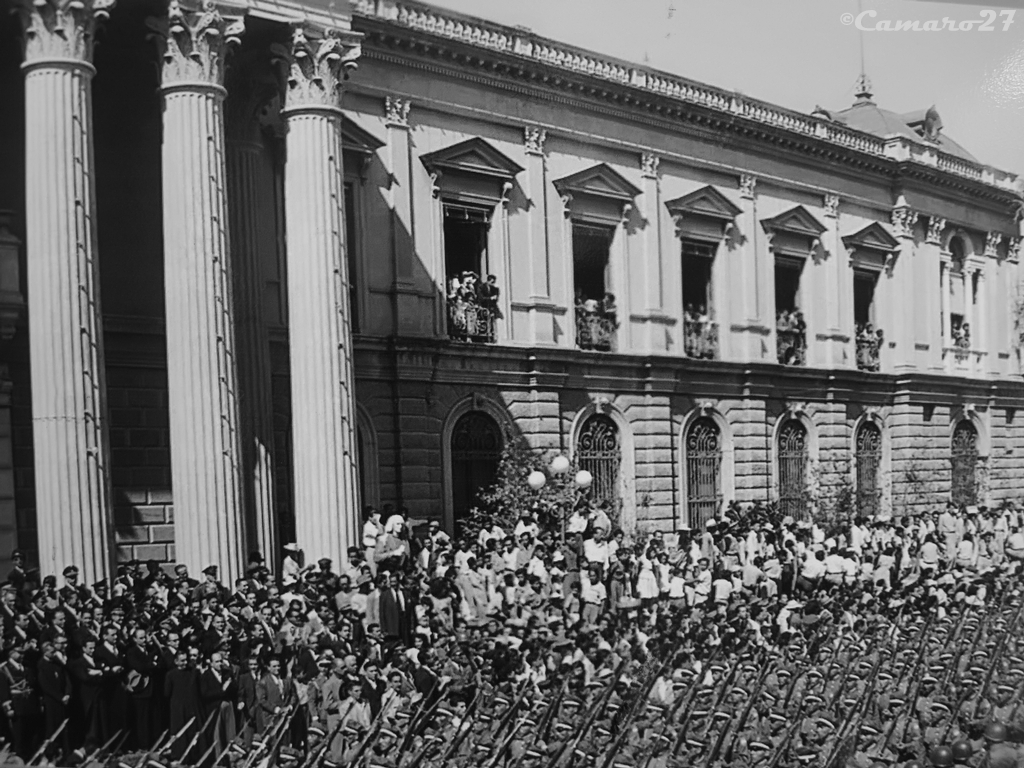
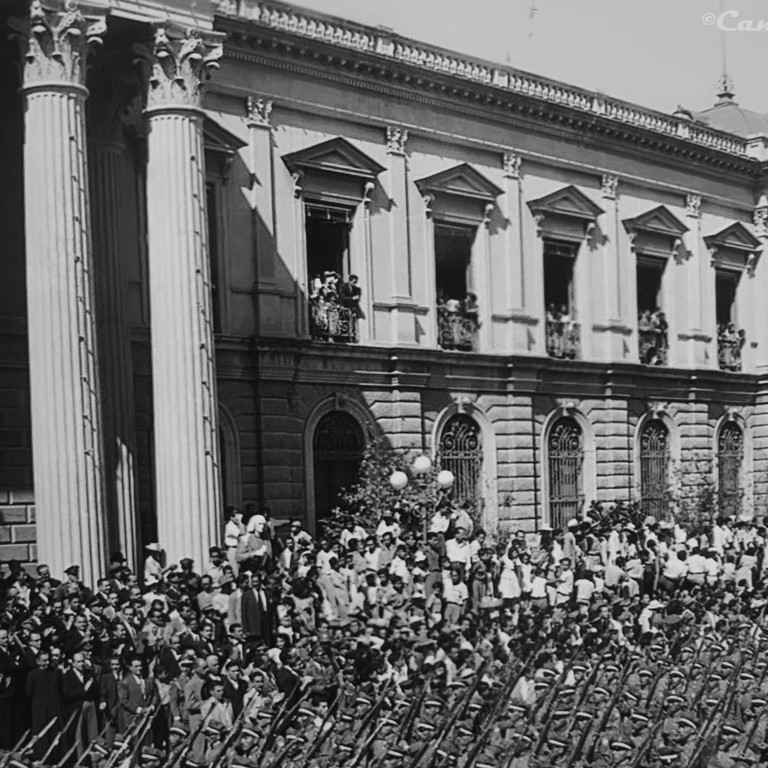
updated

diff --git a/index.html b/index.html
@@ -13,9 +13,10 @@
     <link rel="stylesheet" href="assets/css/custom.css">
 
     <!-- Load fonts style after rendering the layout styles -->
-    <link rel="stylesheet" href="https://fonts.googleapis.com/css2?family=Roboto:wght@100;200;300;400;500;700;900&display=swap">
+    <link rel="stylesheet"
+        href="https://fonts.googleapis.com/css2?family=Roboto:wght@100;200;300;400;500;700;900&display=swap">
     <link rel="stylesheet" href="assets/css/fontawesome.min.css">
-<!--
+    <!--
     
 TemplateMo 559 Zay Shop
 
@@ -29,7 +30,17 @@ https://templatemo.com/tm-559-zay-shop
         width: 100px;
         height: auto;
     }
+
+    @media (max-width: 750px) {
+    .palacionherocontainer img {
+        width: 100vw; 
+        height: 100vh; 
+        object-fit: cover; 
+    }
+}
+
 </style>
+
 <body>
 
     <!-- Header -->
@@ -40,15 +51,18 @@ https://templatemo.com/tm-559-zay-shop
                 <img src="images/logo2.png" alt="">
             </a>
 
-            <button class="navbar-toggler border-0" type="button" data-bs-toggle="collapse" data-bs-target="#templatemo_main_nav" aria-controls="navbarSupportedContent" aria-expanded="false" aria-label="Toggle navigation">
+            <button class="navbar-toggler border-0" type="button" data-bs-toggle="collapse"
+                data-bs-target="#templatemo_main_nav" aria-controls="navbarSupportedContent" aria-expanded="false"
+                aria-label="Toggle navigation">
                 <span class="navbar-toggler-icon"></span>
             </button>
 
-            <div class="align-self-center collapse navbar-collapse flex-fill  d-lg-flex justify-content-lg-between" id="templatemo_main_nav">
+            <div class="align-self-center collapse navbar-collapse flex-fill  d-lg-flex justify-content-lg-between"
+                id="templatemo_main_nav">
                 <div class="flex-fill">
                     <ul class="nav navbar-nav d-flex justify-content-between mx-lg-auto">
                         <li class="nav-item">
-                            <a class="nav-link active" href="index.html">Home</a>
+                            <a class="nav-link" href="index.html">Home</a>
                         </li>
                         <li class="nav-item">
                             <a class="nav-link" href="about.html">Historia</a>
@@ -68,7 +82,8 @@ https://templatemo.com/tm-559-zay-shop
     <!-- Close Header -->
 
     <!-- Modal -->
-    <div class="modal fade bg-white" id="templatemo_search" tabindex="-1" role="dialog" aria-labelledby="exampleModalLabel" aria-hidden="true">
+    <div class="modal fade bg-white" id="templatemo_search" tabindex="-1" role="dialog"
+        aria-labelledby="exampleModalLabel" aria-hidden="true">
         <div class="modal-dialog modal-lg" role="document">
             <div class="w-100 pt-1 mb-5 text-right">
                 <button type="button" class="btn-close" data-bs-dismiss="modal" aria-label="Close"></button>
@@ -84,39 +99,39 @@ https://templatemo.com/tm-559-zay-shop
         </div>
     </div>
 
-
-
     <!-- Start Banner Hero -->
-
+    <div id="template-mo-zay-hero-carousel" data-bs-ride="carousel">
+        <div class="palacioherocontainer">
+            <img class="img-fluid" src="images/palaciohero.jpg" alt="">
+        </div>
+    </div>
     <!-- End Banner Hero -->
-
 
     <!-- Start Categories of The Month -->
     <section class="container py-5">
         <div class="row text-center pt-3">
             <div class="col-lg-6 m-auto">
-                <h1 class="h1">Categories of The Month</h1>
+                <h1 class="h1">Memoria En Cada Paso</h1>
                 <p>
-                    Excepteur sint occaecat cupidatat non proident, sunt in culpa qui officia
-                    deserunt mollit anim id est laborum.
+                    Baldosas del Palacio Nacional de El Salvador
                 </p>
             </div>
         </div>
         <div class="row">
             <div class="col-12 col-md-4 p-5 mt-3">
-                <a href="#"><img src="./assets/img/category_img_01.jpg" class="rounded-circle img-fluid border"></a>
-                <h5 class="text-center mt-3 mb-3">Watches</h5>
-                <p class="text-center"><a class="btn btn-success">Go Shop</a></p>
+                <a href="#"><img src="images/image4.jpg" class="rounded-circle img-fluid border"></a>
+                <h5 class="text-center mt-3 mb-3">Historia</h5>
+                <p class="text-center"><a class="btn btn-success">Leer Más</a></p>
             </div>
             <div class="col-12 col-md-4 p-5 mt-3">
-                <a href="#"><img src="./assets/img/category_img_02.jpg" class="rounded-circle img-fluid border"></a>
-                <h2 class="h5 text-center mt-3 mb-3">Shoes</h2>
-                <p class="text-center"><a class="btn btn-success">Go Shop</a></p>
+                <a href="#"><img src="images/image3.jpg" class="rounded-circle img-fluid border"></a>
+                <h2 class="h5 text-center mt-3 mb-3">Procesos</h2>
+                <p class="text-center"><a class="btn btn-success">Leer Más</a></p>
             </div>
             <div class="col-12 col-md-4 p-5 mt-3">
-                <a href="#"><img src="./assets/img/category_img_03.jpg" class="rounded-circle img-fluid border"></a>
-                <h2 class="h5 text-center mt-3 mb-3">Accessories</h2>
-                <p class="text-center"><a class="btn btn-success">Go Shop</a></p>
+                <a href="#"><img src="images/pisos.jpg" class="rounded-circle img-fluid border"></a>
+                <h2 class="h5 text-center mt-3 mb-3">Pisos</h2>
+                <p class="text-center"><a class="btn btn-success">Leer Más</a></p>
             </div>
         </div>
     </section>
@@ -154,7 +169,8 @@ https://templatemo.com/tm-559-zay-shop
                             </ul>
                             <a href="shop-single.html" class="h2 text-decoration-none text-dark">Gym Weight</a>
                             <p class="card-text">
-                                Lorem ipsum dolor sit amet, consectetur adipisicing elit. Sunt in culpa qui officia deserunt.
+                                Lorem ipsum dolor sit amet, consectetur adipisicing elit. Sunt in culpa qui officia
+                                deserunt.
                             </p>
                             <p class="text-muted">Reviews (24)</p>
                         </div>
@@ -178,7 +194,8 @@ https://templatemo.com/tm-559-zay-shop
                             </ul>
                             <a href="shop-single.html" class="h2 text-decoration-none text-dark">Cloud Nike Shoes</a>
                             <p class="card-text">
-                                Aenean gravida dignissim finibus. Nullam ipsum diam, posuere vitae pharetra sed, commodo ullamcorper.
+                                Aenean gravida dignissim finibus. Nullam ipsum diam, posuere vitae pharetra sed, commodo
+                                ullamcorper.
                             </p>
                             <p class="text-muted">Reviews (48)</p>
                         </div>
@@ -200,9 +217,11 @@ https://templatemo.com/tm-559-zay-shop
                                 </li>
                                 <li class="text-muted text-right">$360.00</li>
                             </ul>
-                            <a href="shop-single.html" class="h2 text-decoration-none text-dark">Summer Addides Shoes</a>
+                            <a href="shop-single.html" class="h2 text-decoration-none text-dark">Summer Addides
+                                Shoes</a>
                             <p class="card-text">
-                                Curabitur ac mi sit amet diam luctus porta. Phasellus pulvinar sagittis diam, et scelerisque ipsum lobortis nec.
+                                Curabitur ac mi sit amet diam luctus porta. Phasellus pulvinar sagittis diam, et
+                                scelerisque ipsum lobortis nec.
                             </p>
                             <p class="text-muted">Reviews (74)</p>
                         </div>
@@ -270,23 +289,28 @@ https://templatemo.com/tm-559-zay-shop
                 <div class="col-auto me-auto">
                     <ul class="list-inline text-left footer-icons">
                         <li class="list-inline-item border border-light rounded-circle text-center">
-                            <a class="text-light text-decoration-none" target="_blank" href="http://facebook.com/"><i class="fab fa-facebook-f fa-lg fa-fw"></i></a>
+                            <a class="text-light text-decoration-none" target="_blank" href="http://facebook.com/"><i
+                                    class="fab fa-facebook-f fa-lg fa-fw"></i></a>
                         </li>
                         <li class="list-inline-item border border-light rounded-circle text-center">
-                            <a class="text-light text-decoration-none" target="_blank" href="https://www.instagram.com/"><i class="fab fa-instagram fa-lg fa-fw"></i></a>
+                            <a class="text-light text-decoration-none" target="_blank"
+                                href="https://www.instagram.com/"><i class="fab fa-instagram fa-lg fa-fw"></i></a>
                         </li>
                         <li class="list-inline-item border border-light rounded-circle text-center">
-                            <a class="text-light text-decoration-none" target="_blank" href="https://twitter.com/"><i class="fab fa-twitter fa-lg fa-fw"></i></a>
+                            <a class="text-light text-decoration-none" target="_blank" href="https://twitter.com/"><i
+                                    class="fab fa-twitter fa-lg fa-fw"></i></a>
                         </li>
                         <li class="list-inline-item border border-light rounded-circle text-center">
-                            <a class="text-light text-decoration-none" target="_blank" href="https://www.linkedin.com/"><i class="fab fa-linkedin fa-lg fa-fw"></i></a>
+                            <a class="text-light text-decoration-none" target="_blank"
+                                href="https://www.linkedin.com/"><i class="fab fa-linkedin fa-lg fa-fw"></i></a>
                         </li>
                     </ul>
                 </div>
                 <div class="col-auto">
                     <label class="sr-only" for="subscribeEmail">Email address</label>
                     <div class="input-group mb-2">
-                        <input type="text" class="form-control bg-dark border-light" id="subscribeEmail" placeholder="Email address">
+                        <input type="text" class="form-control bg-dark border-light" id="subscribeEmail"
+                            placeholder="Email address">
                         <div class="input-group-text btn-success text-light">Subscribe</div>
                     </div>
                 </div>
@@ -298,8 +322,9 @@ https://templatemo.com/tm-559-zay-shop
                 <div class="row pt-2">
                     <div class="col-12">
                         <p class="text-left text-light">
-                            Copyright &copy; 2021 Company Name 
-                            | Designed by <a rel="sponsored" href="https://templatemo.com" target="_blank">TemplateMo</a>
+                            Copyright &copy; 2021 Company Name
+                            | Designed by <a rel="sponsored" href="https://templatemo.com"
+                                target="_blank">TemplateMo</a>
                         </p>
                     </div>
                 </div>
